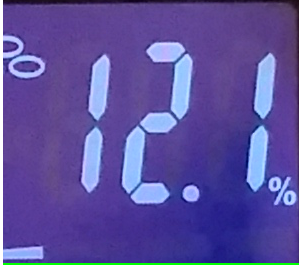
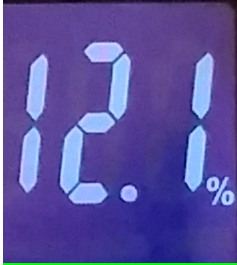
iHunt - Test 90 %

Changed region(s): [[0.2363, 0.1509, 0.6793, 0.7849], [0.0, 0.0, 0.2068, 1.0], [0.7679, 0.1811, 1.0, 0.7849]]

diff --git a/rnum.py b/rnum.py
@@ -1,10 +1,10 @@
 import numpy as np
 import cv2
 import sys
-from findBlobs import findBlobs
+from findBlobs import findBlobs, stdSize
 from cwUtils import *
 global db 
-Rtype = 'h2o'
+Rtyp = ['wt']
 #Gd  = Display((1040,410)) 
 iHunt = []
 db = False
@@ -14,24 +14,19 @@ xtyp = ''
 
 def hunt(imgx,typ ,db):
     global xtyp
-   # cvs(db,imgx,'debug')
-    #imgy = imgx.adaptiveScale((1040,410))
-    imgy = cv2.resize(imgx, (1040,410))
-    #hue = max(imgy.huePeaks())[0] +15
-    hue = 160
-    if db: print 'max huePeaks', hue 
+    imgy = stdSize(imgx,typ)
     hcnt = 0
     xtyp = typ
     typex = {
-                 #    lim   limh    ms     mx   dz   
-             'wt' : [130.0,150.0,  500,  3500,   60],    
-             'h2o': [ 60.0, 80.0,  1900,  10000,  80],
-             'fat': [  9.0, 15.0,  1000,   8000,  90]       
+                 #    lim   limh    ms     mx      dz   
+             'wt' : [130.0,150.0,  500,    4000,   40],    
+             'h2o': [ 60.0, 80.0,  200,    1500,   30],
+             'fat': [  9.0, 15.0,  300,    2500,   40]       
             }
    
     exlist = {
-            'wt' :  [8,  2  ],
-            'h2o' : [0,  2   ],
+            'wt' :  [2,  8  ],
+            'h2o' : [2,  8   ],
             'fat' : [2,  8  ]
               }                             #  200 5 600  3000   works h20
     txlist = {
@@ -79,7 +74,7 @@ def hunt(imgx,typ ,db):
     return(hunt2(imgx,typ,hcnt))
 def hunt2(imgx,typ,hcnt):
 #    imgy = imgx.adaptiveScale((1040,410))
-    imgy = cv2.resize(imgx, (1040,410))
+    imgy = imgx  #cv2.resize(imgx, (1040,410))
     img = imgy
     if db: cvs(db,img,'hunt 2',0)
     
@@ -98,7 +93,7 @@ def hunt2(imgx,typ,hcnt):
     txlist = {
             'wt' :  [ 160, 140   ],
             'h2o' : [ 127, 160, 140   ],  #160, 140, 205 ],
-            'fat' : [ 187, 160, 205, 140   ]
+            'fat' : [ 127, 160, 205, 140   ]
              }
     lim  =  typex[typ][0]    #limt[0]
     limh =  typex[typ][1]
@@ -135,7 +130,7 @@ def hunt2(imgx,typ,hcnt):
              
     print '>>>>><<<<<<<<<>>>>hunt2 ' ,typ, ' failed'
     return(0)
-def rdNumber(img, tval=160, ex=1, ms=1.0,mx=3, dz = 60):
+def rdNumber(img, tval=160, ex=2, ms=1.0,mx=3, dz = 60):
      
     '''
     analyse the img and pass a likely set of features to qnumb for
@@ -148,7 +143,7 @@ def rdNumber(img, tval=160, ex=1, ms=1.0,mx=3, dz = 60):
     print '-----rdNumber   tval',tval,' ex',ex,'ms', ms, 'mxsize', mx 
     #  img.clearLayers()
     #cvs(db,img,'fs input')   #img.save(Gd)
-    fs = findBlobs(img, ms, mx , db,tval=tval )
+    fs = findBlobs(img, ms, mx ,ex, db,tval=tval )
     if not fs:
         if db: print ' no features found'
         cvs(db,img)
@@ -200,23 +195,24 @@ def rdNumber(img, tval=160, ex=1, ms=1.0,mx=3, dz = 60):
             #cpause('detail',Gd)
             #if 'p' in numb: break
             fz = x
-        
-        
-        
         numb.append(qnumb(tgrp,img,xd1))
         print 'last numb', numb
-        tpat = numb                  # filter out the P junk
+        tpat = numb 
+        if  all(i == 'p' for i in tpat):
+             return([0,0,0,0],rmx,rmn)     #    nfg return True zero
+        
+                         # filter out the P junk
         #if db: cpause(['end  1 rd',tpat],Gd)
         if len(tpat)>3:
             while tpat[-1] == 'p':
                 tpat.pop()
+               
             while( tpat[0] == 'p'):
                 tpat.pop(0)
       #  if db: cpause(['end rd',tpat],Gd)
         if 'p' in tpat:
             return([0,0,0,0],rmx,rmn)     #    nfg return True zero
-        else:
-             
+        else:             
             return(tpat,rmx,rmn) # maybe good numeric value
        
          
@@ -230,7 +226,7 @@ def qnumb(grp,img,xd):      #   what number does this group encode??
     returns [ number , flag]   flag is True for good number 
     '''
     global Gd
-    img = cv2.resize(img, (1040,410))
+    #img = stdSize(img,xtyp)  #cv2.resize(img, (1040,410))
     if not len(grp) > 0:
         if db: ( 'zero len group. -- quitting')
         return(0)
@@ -293,9 +289,9 @@ def qnumb(grp,img,xd):      #   what number does this group encode??
           #  'p' in  pattern indicates problems
           #  ptrn 110 and xd < 100 also problems?
     tpat = qptrn(ptrn)
-    if  ptrn == 110 :
-        if db: print '<<<<<<<<<< ??? problem pattern 110 xd is  -', xd
-        if xd < 100: return 'p'
+##    if  ptrn == 110 :
+##        if db: print '<<<<<<<<<< ??? problem pattern 110 xd is  -', xd
+##       # if xd < 100: return 'p'
     return tpat
 
 
@@ -332,11 +328,14 @@ if  __name__ == '__main__':
     print ' rnum  module regression Test'
     db = True
  #  Gd  = Display((1040,410))
-    for tst in ['fat']:      #['fat','wt', 'h2o']; 
+    for tst in Rtyp:   #[ 'wt', 'h2o']:   #['fat']:      #['fat','wt', 'h2o']; 
         img = cv2.imread(tst +'Test.png') 
        
         #cvs(db,img )
-        #cpause('test image',Gd)
+        if db:
+            cvs(db,img,t=0)
+            h,w = img.shape[:2]   #   h = rows,  w = cols
+            print 'h {} w{}'.format(h,w)
         wt  = hunt(img,tst,db )     
         print  'result  is', wt 
         print 'iHunt',iHunt

diff --git a/findBlobs.py b/findBlobs.py
@@ -5,12 +5,24 @@ import sys
 global db
 from cwUtils import cvs, cvd , erode, dilate
 
-db = True                   
-def  findBlobs(imx,ms,mx,db,tval=127):
+db = True
+def stdSize(imgx,typ):
+    h,w = imgx.shape[:2]   #   h = rows,  w = cols
+    if typ == 'wt':
+        nw = 800
+    else:
+        nw = 400
+   
+    nh =   h * (float(nw) / float(w))  
+    print 'stdSize height {} typ {} nw {}'.format( nh, typ, nw)
+    imgy =  cv2.resize(imgx, ( nw, int (nh) )  )    # maintain aspect ratio
     
-     
-    Erd = 2
-    print 'This is find blobs  1.0 ms mx db', ms, mx ,db
+    return imgy
+
+def  findBlobs(imx,ms,mx,erd,db,tval=127):
+  
+    Erd = erd
+    print 'This is find blobs  1.0 ms {} mx {}  db {}'.format( ms, mx , db)
     imgray = cv2.cvtColor(imx,cv2.COLOR_BGR2GRAY)
     ret,thresh = cv2.threshold(imgray,tval,255,0)
     thresh = erode(thresh,Erd)
@@ -25,66 +37,53 @@ def  findBlobs(imx,ms,mx,db,tval=127):
     rvl = []
     for con in scon:
        area = cv2.contourArea(con)
-#       if db: print  area
+       if db: print  area,
+       
        cnt_len = cv2.arcLength(con, True)                          
        cntp = cv2.approxPolyDP(con, 0.02*cnt_len, True)
 ##        and cv2.contourArea(cntp) > ms \
 ##        and cv2.contourArea(cntp) < mx \
+##        and cv2.isContourConvex(cntp) \
  #      print len(cntp)  #    look for suitable contours
        x,y,w,h = cv2.boundingRect(con)
+       asp = abs(  w - h  )
+       if db: print 'asp {}  w {} h {} '.format(asp,w,h)
        if len(cntp) > 3  \
-          and cv2.isContourConvex(cntp) \
-             and abs( 1.0 - float(w)/float(h) ) > .1 \
-             and  area > ms and area < mx:
+          and asp > .1 \
+          and  area > ms and area < mx:
             rvl.append(con)
             cv2.drawContours(imx,[con], 0, (0,255,255), 2)    # yellow
         
        else:
           cv2.drawContours(imx,[con], 0, (0,0,255), 2)       #  red
           
-#       if db:cvs(db,imx,'included')
+       if db:cvs(db,imx,t=0)
     return rvl
    
 if __name__ == '__main__':
-    global db
-   
-    db = False
+    db = True
     print 'funny ', db
-    fn = 'trouble.png'
-    fn = 'h2oTest.png'
-##    fn = 'cropTest.png'
-##    fn = 'wtTest.png'
-    fn = 'fatTest.png'
-    imgx = cv2.imread(fn)
-    img = cv2.resize(imgx, (1040,410))
+ 
+    tst = 'fat'
+    imgx = cv2.imread(tst +'Test.png') 
+    #imgx = cv2.imread(fn)
+    img = stdSize(imgx,tst)   #cv2.resize(imgx, (1040,410))
     srt = img.copy()
     h,w = img.shape[:2]  
-    print ' input is {} width {} height {}  '.format(fn,w, h )
-    d = 0
-##    img = erode(img,4)
-##    img = dilate(img,0)
+ 
     #cvs(db,img)
-    ms = 1500
-    mx = 10000
-    cnt =  findBlobs( img,ms,mx,db) # will modify img to show cnt
+    ms =  100;    mx = 10000;  erd = 2; tx=127
+    cnt =  findBlobs( img,ms,mx,erd,db,tx) # will modify img to show cnt
     cnt  =   sorted(cnt, key = lambda cnt: tuple(cnt[cnt[:,:,0].argmin()][0]))
+    print ' input is {} width {} height {} ms {} mx {} tval {}   '\
+          .format(tst,w, h,ms,mx,tx)
     for f in cnt:
-        cv2.drawContours(srt,[f],0,(255,0,0),2)
+        cv2.drawContours(img,[f],0,(255,0,0),2)
         print 'array f ',  f[0] ,
         x,y,w,h = cv2.boundingRect(f)
         a =  cv2.contourArea(f)
         asp = round(abs( 1.00 - float(w)/float(h) ),2)
         print 'x {}  y {}\tw {}\th {}\ta {}\tasp {} '.format( x, y , w, h,a,asp)
-        cvs(db,srt,'rtnd')
-     
-        
-    print '{} blobs found'.format (len(cnt))
-    cvs(db,img)
-    cv2.drawContours(srt,cnt,-1,(0,255,255),2)            # green line w 3
-    
-    #print cnt
+    cvs(1,img,t=0)
  
-
-    cvs(db,srt,'rtnd',50)
-    x = cv2.waitKey()
     cvd()

diff --git a/sworks.py b/sworks.py
@@ -96,11 +96,11 @@ def Part(self,img,db):
     fv1 = int(.65 * w )   #.7
     fv2 = int(.5 * fv1)
     x1cut = int(.3 * fv2)
-    x2cut = int(.95*(fv1 + x1cut))
-    
-    dy = .15 * h
+   
+    x2cut = int(.77 * w)
+ 
     fy = int(.65 * h)
-    fyc =   fy           #   cut line for h20 allow some slack
+ 
    #cv2.line(img,(x1,y1),    (x2,y2),   (0,255,0)             ,2) 
     cv2.line(img,(x1cut,0),  (x1cut,h),   (0,0,0)        ,thickness=3)
     cv2.line(img,( 0,fy),    ( w, fy ),   (0,255,0)        ,thickness=3)
@@ -108,19 +108,19 @@ def Part(self,img,db):
 #   ROI = imgC[ y1:y2,     x1:x2   ].copy()
     wt  = img [  0:fy,   x1cut:fv1  ].copy()  #  100  x 300   st at 150   asp = .33
     cv2.line(img,(x2cut,0), (x2cut,h), (255,255,255)     ,thickness=3)
-    dy = .15 * h
-    fat  = img[ 0:fy,    x2cut:w  ].copy()
+ 
+    fat  = img[ 0:fy,     x2cut:w  ].copy()
     h2o =  img[ fy:h,     x1cut:fv2   ].copy()
 
     if db: cvs(db,img )
 
-##    h2o = img.crop((x1cut,fyc), (fv2, img.height)  )
+ 
     
     return([wt,fat,h2o])
   
 if  __name__ == '__main__':
     global db     
-    db = False
+    db = True
     iHunt = []
     fil = "input.png"
     #fil = 'C:\\github\\cvWeight\\Thin.JPG' 

diff --git a/testLoop.py b/testLoop.py
@@ -18,8 +18,8 @@ global db
 db = False
 #tfile = 'F:\\ScTest\\Qtest.txt'
 #tfile = 'F:\\ScTest\\TX\\wtDataTst.txt'
-tfile = 'F:\\ScTest\\Tdec30G1.txt'   # F: is write protected on VM
-#tfile = 'ScTest\\T2015Doris.txt'      #    should work on Git Hub with limited ScTest
+tfile = 'F:\\ScTest\\Tdec30G1.txt'         # F: is write protected on VM
+#tfile = 'ScTest\\T2015Doris.TRB.txt'      #    should work on Git Hub with limited ScTest
 #tfile = 'VM-trb.txt'
 try:
     trb = open(tfile.replace('txt','TRB.txt'),'w')
